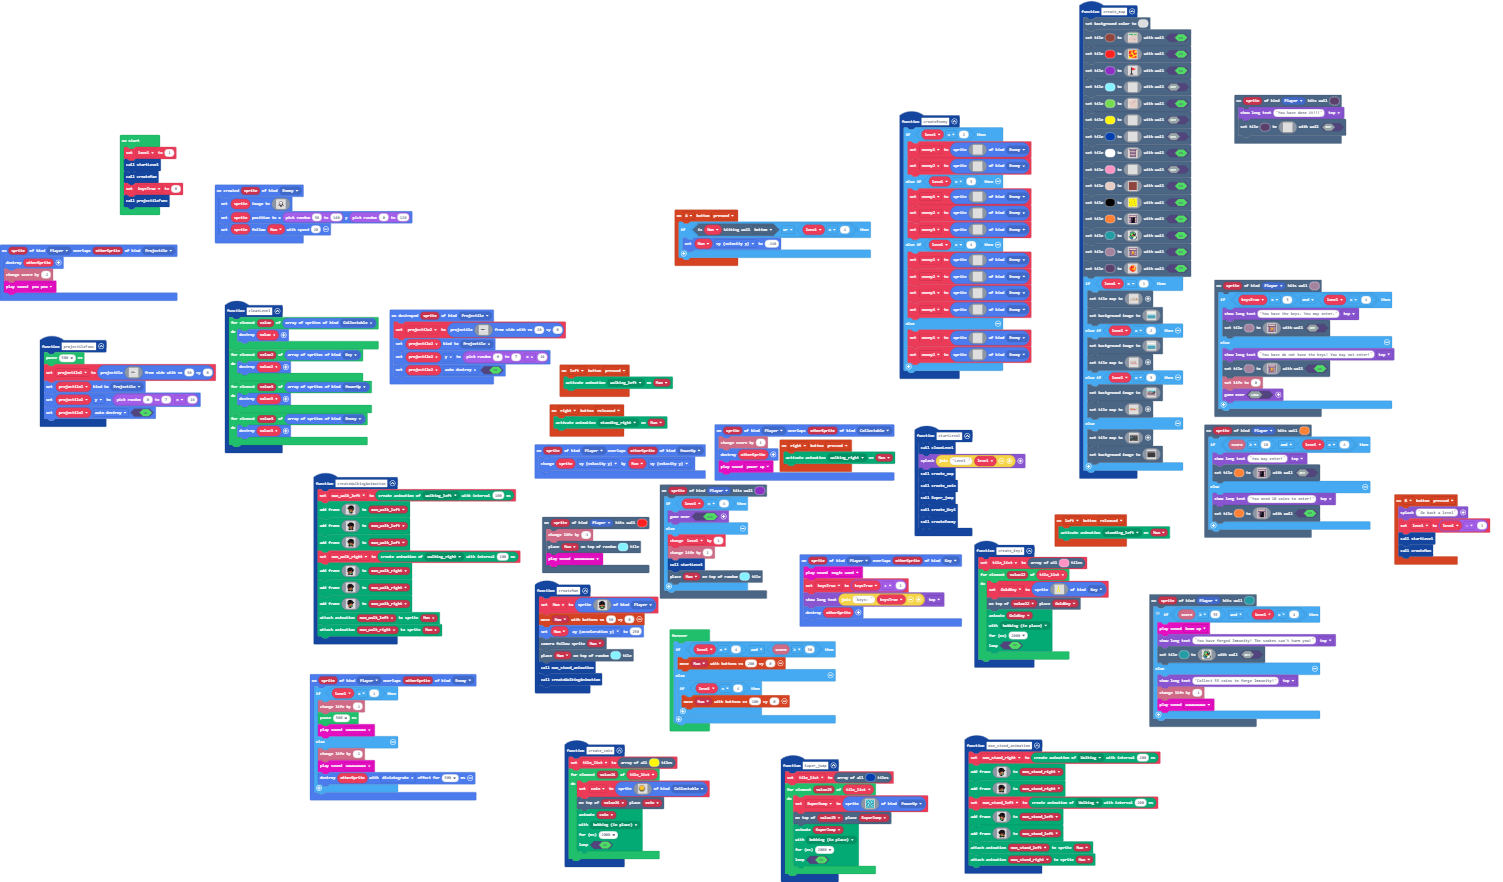
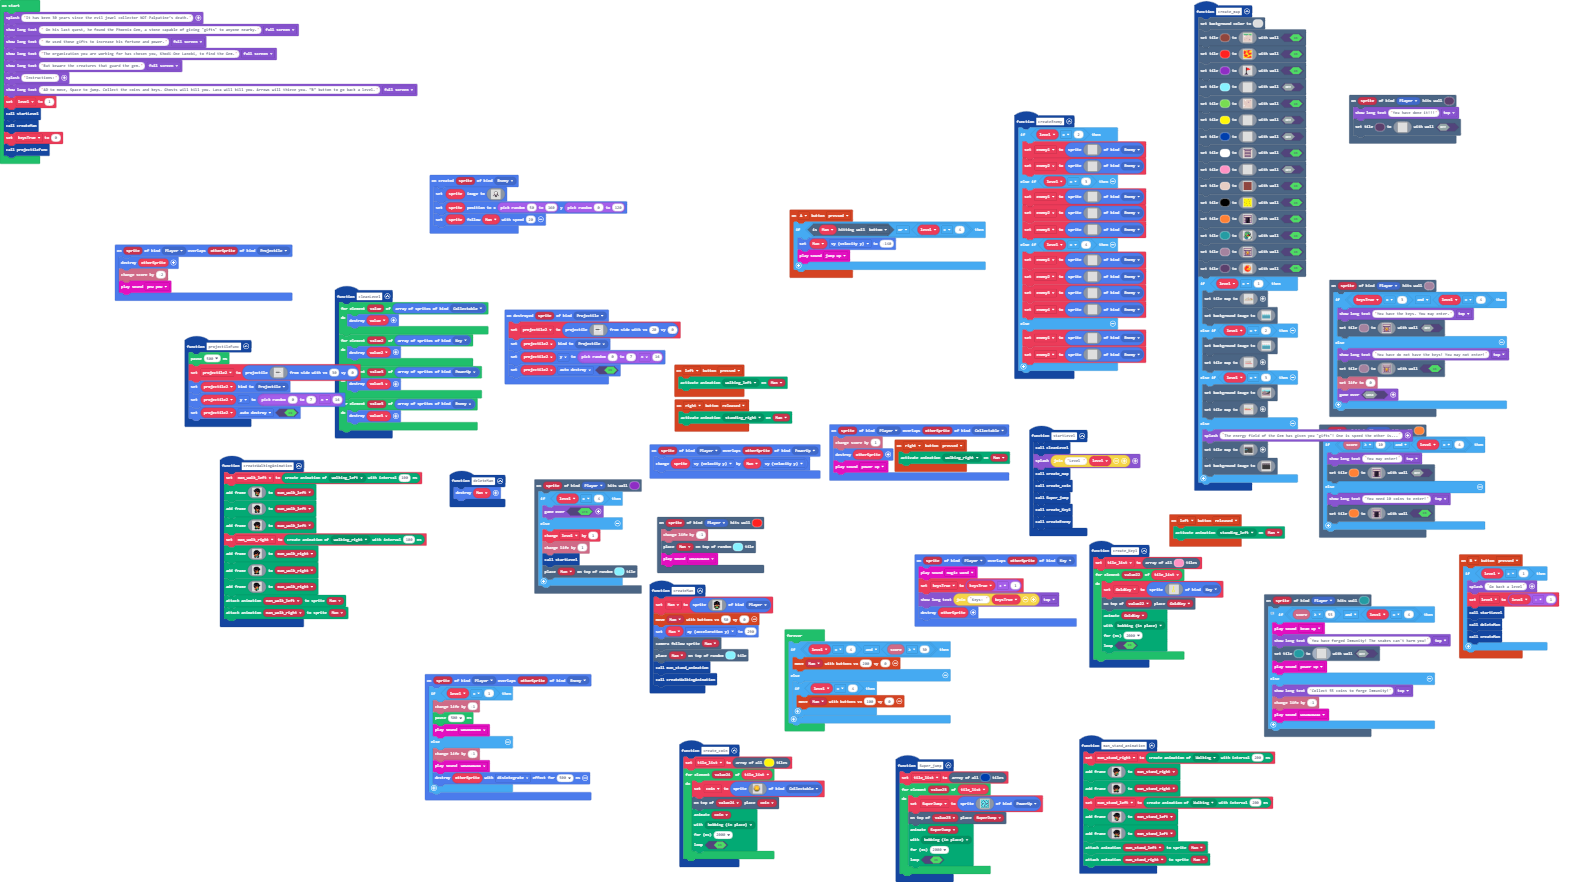
Update main.blocks, main.ts

diff --git a/main.ts b/main.ts
@@ -140,11 +140,17 @@ function man_stand_animation () {
     animation.attachAnimation(Man, man_stand_left)
     animation.attachAnimation(Man, man_stand_right)
 }
+function deleteMan () {
+    Man.destroy()
+}
 controller.B.onEvent(ControllerButtonEvent.Pressed, function () {
-    game.splash("Go back a level")
-    level = level - 1
-    startLevel()
-    createMan()
+    if (level > 1) {
+        game.splash("Go back a level")
+        level = level - 1
+        startLevel()
+        deleteMan()
+        createMan()
+    }
 })
 scene.onHitTile(SpriteKind.Player, 11, function (sprite) {
     if (keysTrue == 3 && level == 4) {
@@ -194,6 +200,7 @@ scene.onHitTile(SpriteKind.Player, 11, function (sprite) {
 controller.A.onEvent(ControllerButtonEvent.Pressed, function () {
     if (Man.isHittingTile(CollisionDirection.Bottom) || level == 4) {
         Man.vy = -140
+        music.jumpUp.play()
     }
 })
 function createMan () {
@@ -1452,6 +1459,7 @@ function create_map () {
             dddddddddddddddddddddddddddddddddddddddd
             `)
     } else {
+        game.splash("The energy field of the Gem has given you \"gifts\"! One is speed the other is...")
         scene.setTileMap(img`
             cccccccccccccccccccccccccccccccccccccccccccccccccccccccccccccccccccccccccccccccccccccccccccccccccccccccccccccccccccccccccccccccccccccccccccccccccccccccccccccccc
             cccccccccccccccccccccccccccccccccccccccccccccccccccccccccccccccccccccccccccccccccccccccccccccccccccccccccccccccccccccccccccccccccccccccccccccccccccccccccccccccc
@@ -1728,23 +1736,24 @@ scene.onHitTile(SpriteKind.Player, 6, function (sprite) {
         music.beamUp.play()
         game.showLongText("You have forged Immunity! The snakes can't harm you!", DialogLayout.Top)
         scene.setTile(6, img`
-            . . . . c c c c c c c . . . . . 
-            . . . c 6 7 7 7 7 7 6 c . . . . 
-            . . c 6 7 c 6 6 6 6 c 7 c . . . 
-            . . c 7 7 6 f 6 6 f 6 7 6 c . . 
-            . . c 7 7 7 7 7 7 7 7 7 7 c . . 
-            . . f 7 7 7 6 1 f f 1 8 7 f . . 
-            . . f 7 7 7 f 1 f f 1 f 6 f . . 
-            . . f 6 7 7 f 2 2 2 2 f f . . . 
-            . . c f 6 7 7 2 2 2 2 f c c . . 
-            . c 7 7 c c 7 7 7 7 7 7 7 7 c . 
-            c 7 7 7 6 c f 7 7 7 7 1 1 1 7 c 
-            c c 6 6 6 c c f 6 7 1 1 1 1 1 f 
-            . . c 6 6 6 c 6 6 1 1 1 1 1 1 f 
-            . . c 6 6 6 6 6 6 1 1 1 1 1 6 f 
-            . . . c 6 6 6 6 1 1 1 1 1 6 f . 
-            . . . . c c c c c c c c f f . . 
+            . . . . . . . . . . . . . . . . 
+            . . . . . . . . . . . . . . . . 
+            . . . . . . . . . . . . . . . . 
+            . . . . . . . . . . . . . . . . 
+            . . . . . . . . . . . . . . . . 
+            . . . . . . . . . . . . . . . . 
+            . . . . . . . . . . . . . . . . 
+            . . . . . . . . . . . . . . . . 
+            . . . . . . . . . . . . . . . . 
+            . . . . . . . . . . . . . . . . 
+            . . . . . . . . . . . . . . . . 
+            . . . . . . . . . . . . . . . . 
+            . . . . . . . . . . . . . . . . 
+            . . . . . . . . . . . . . . . . 
+            . . . . . . . . . . . . . . . . 
+            . . . . . . . . . . . . . . . . 
             `, false)
+        music.powerUp.play()
     } else {
         game.showLongText("Collect 55 coins to forge Immunity!", DialogLayout.Top)
         info.changeLifeBy(-1)
@@ -1783,6 +1792,13 @@ let man_stand_right: animation.Animation = null
 let Man: Sprite = null
 let keysTrue = 0
 let level = 0
+game.splash("It has been 30 years since the evil jewel collector NOT-Palpatine’s death.")
+game.showLongText(" On his last quest, he found the Phoenix Gem, a stone capable of giving \"gifts\" to anyone nearby.", DialogLayout.Full)
+game.showLongText(" He used those gifts to increase his fortune and power.", DialogLayout.Full)
+game.showLongText("The organization you are working for has chosen you, Khodi-One Lanobi, to find the Gem.", DialogLayout.Full)
+game.showLongText("But beware the creatures that guard the gem.", DialogLayout.Full)
+game.splash("Instructions:")
+game.showLongText("AD to move, Space to jump. Collect the coins and keys. Ghosts will kill you. Lava will kill you. Arrows will thieve you. “B” button to go back a level.", DialogLayout.Full)
 level = 1
 startLevel()
 createMan()
